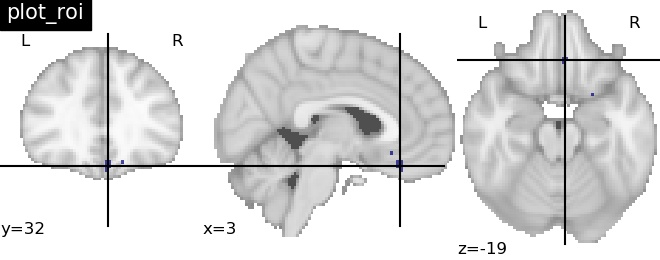
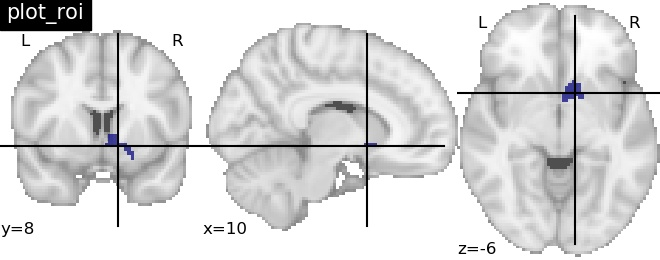
changes

diff --git a/sagol/gui/deducability_screen.py b/sagol/gui/deducability_screen.py
@@ -4,10 +4,10 @@ from sagol.gui.globals import STATE
 from sagol.evaluate_models import Models
 from PIL import ImageTk, Image
 
-
-class roi_to_accuracy_table(tk.Tk):
+image_of_brain = None
+class roi_to_accuracy_table(tk.Toplevel):
     def __init__(self, dictionary):
-        tk.Tk.__init__(self)
+        tk.Toplevel.__init__(self)
 
         t = SimpleTable(self, dictionary)
         t.pack(side="top", fill="x")
@@ -53,16 +53,28 @@ class SimpleTable(tk.Frame):
         widget.configure(text=value)
 
 def show_roi(path_of_roi, frame):
+    import nibabel as nib
+    from nilearn import plotting
+    global image_of_brain
+    window = tk.Toplevel()
+    window.geometry('1300x700')
+    window.title("Models")
 
     path_of_image = 'name123.jpg'
+    data = nib.load(path_of_roi)
+
+    display = plotting.plot_roi(data,
+                                title="plot_roi")
+    display.savefig(path_of_image)
     plot_brain_image_from_nifty(path_of_roi, path_of_image)
 
-    img = ImageTk.PhotoImage(Image.open(path_of_image))
+    image_of_brain = ImageTk.PhotoImage(Image.open(path_of_image))
 
-    panel = tk.Label(frame, image=img)
+    label = tk.Label(window, image=image_of_brain)
+    label.image = image_of_brain  # need to keep the reference of your image to avoid garbage collection
+    label.pack(side="bottom", fill="both", expand="yes")
 
-    panel.pack(side="bottom", fill="both", expand="yes")
-
+    window.mainloop()
 
 def create_deducability_by_leave_on_roi_out_screan(model_name):
     trained_models = STATE['trained_models']

diff --git a/sagol/gui/app.py b/sagol/gui/app.py
@@ -7,7 +7,7 @@ from sagol.utils import setup_log_handlers
 
 setup_log_handlers()
 
-root = tk.Tk()
+root = tk.Toplevel()
 root.title("Sagol")
 
 
